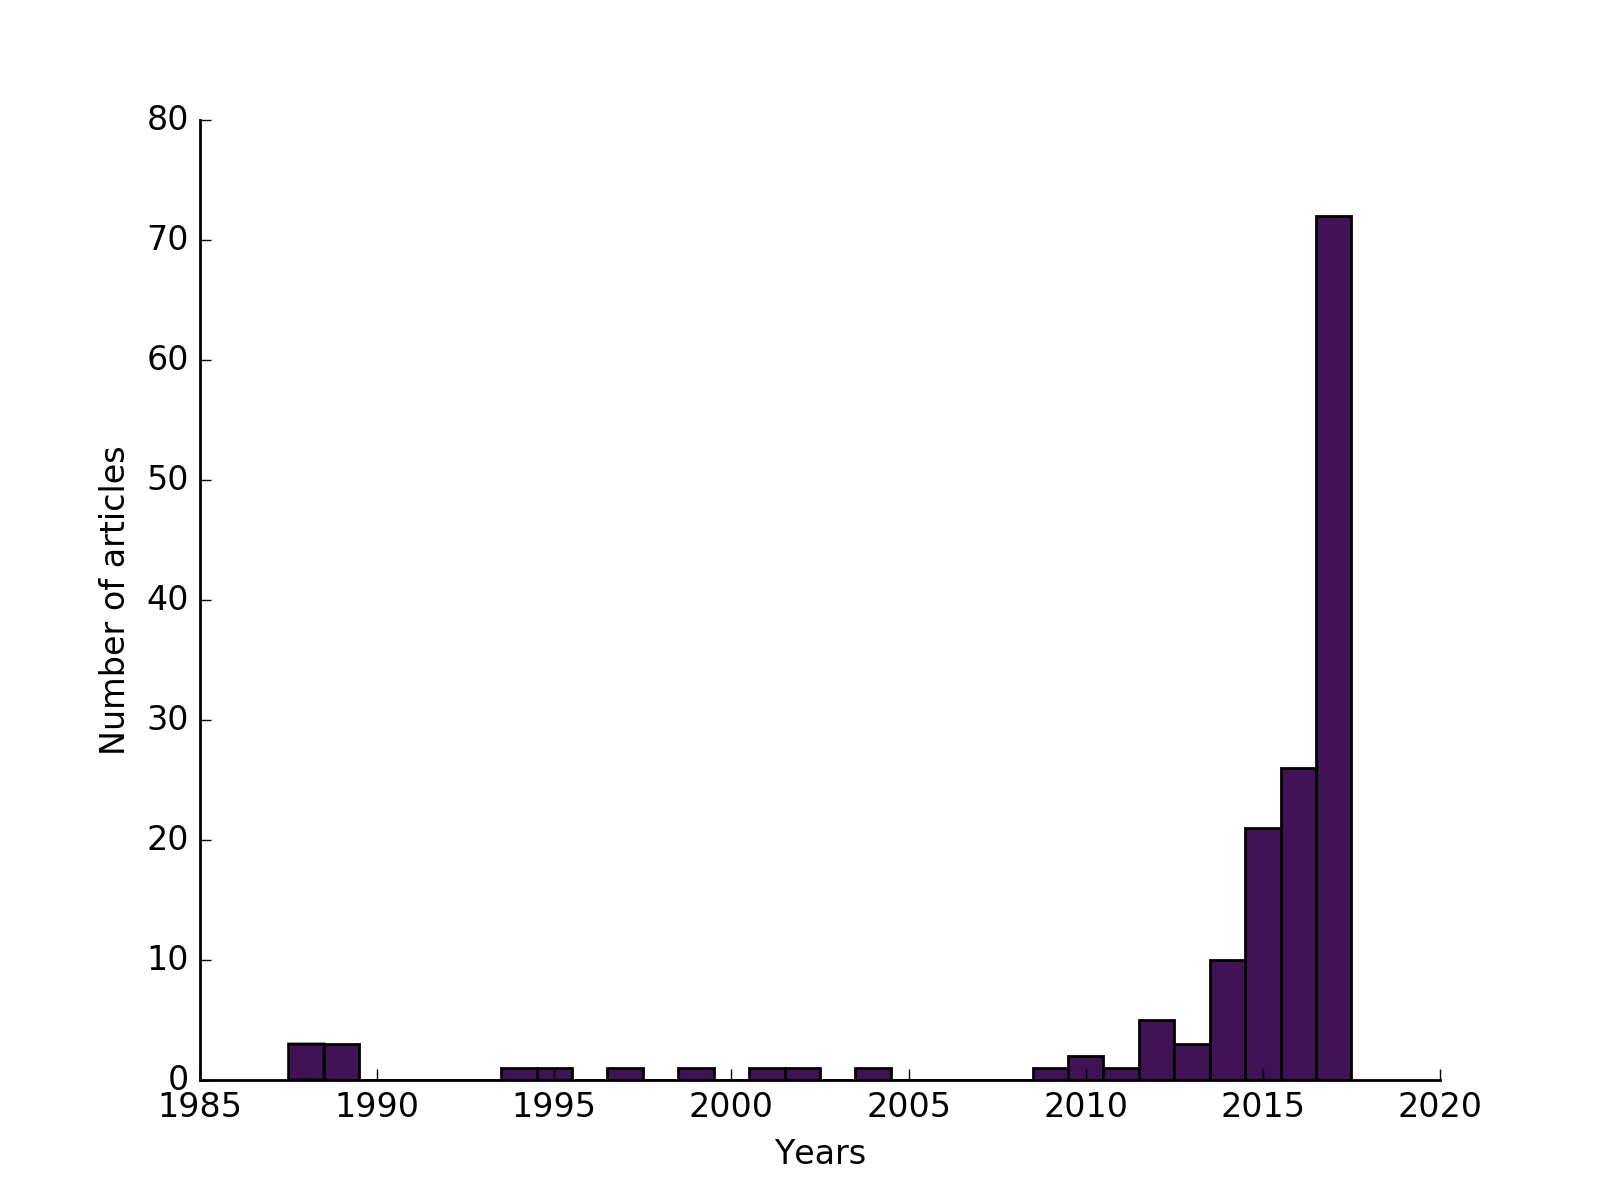
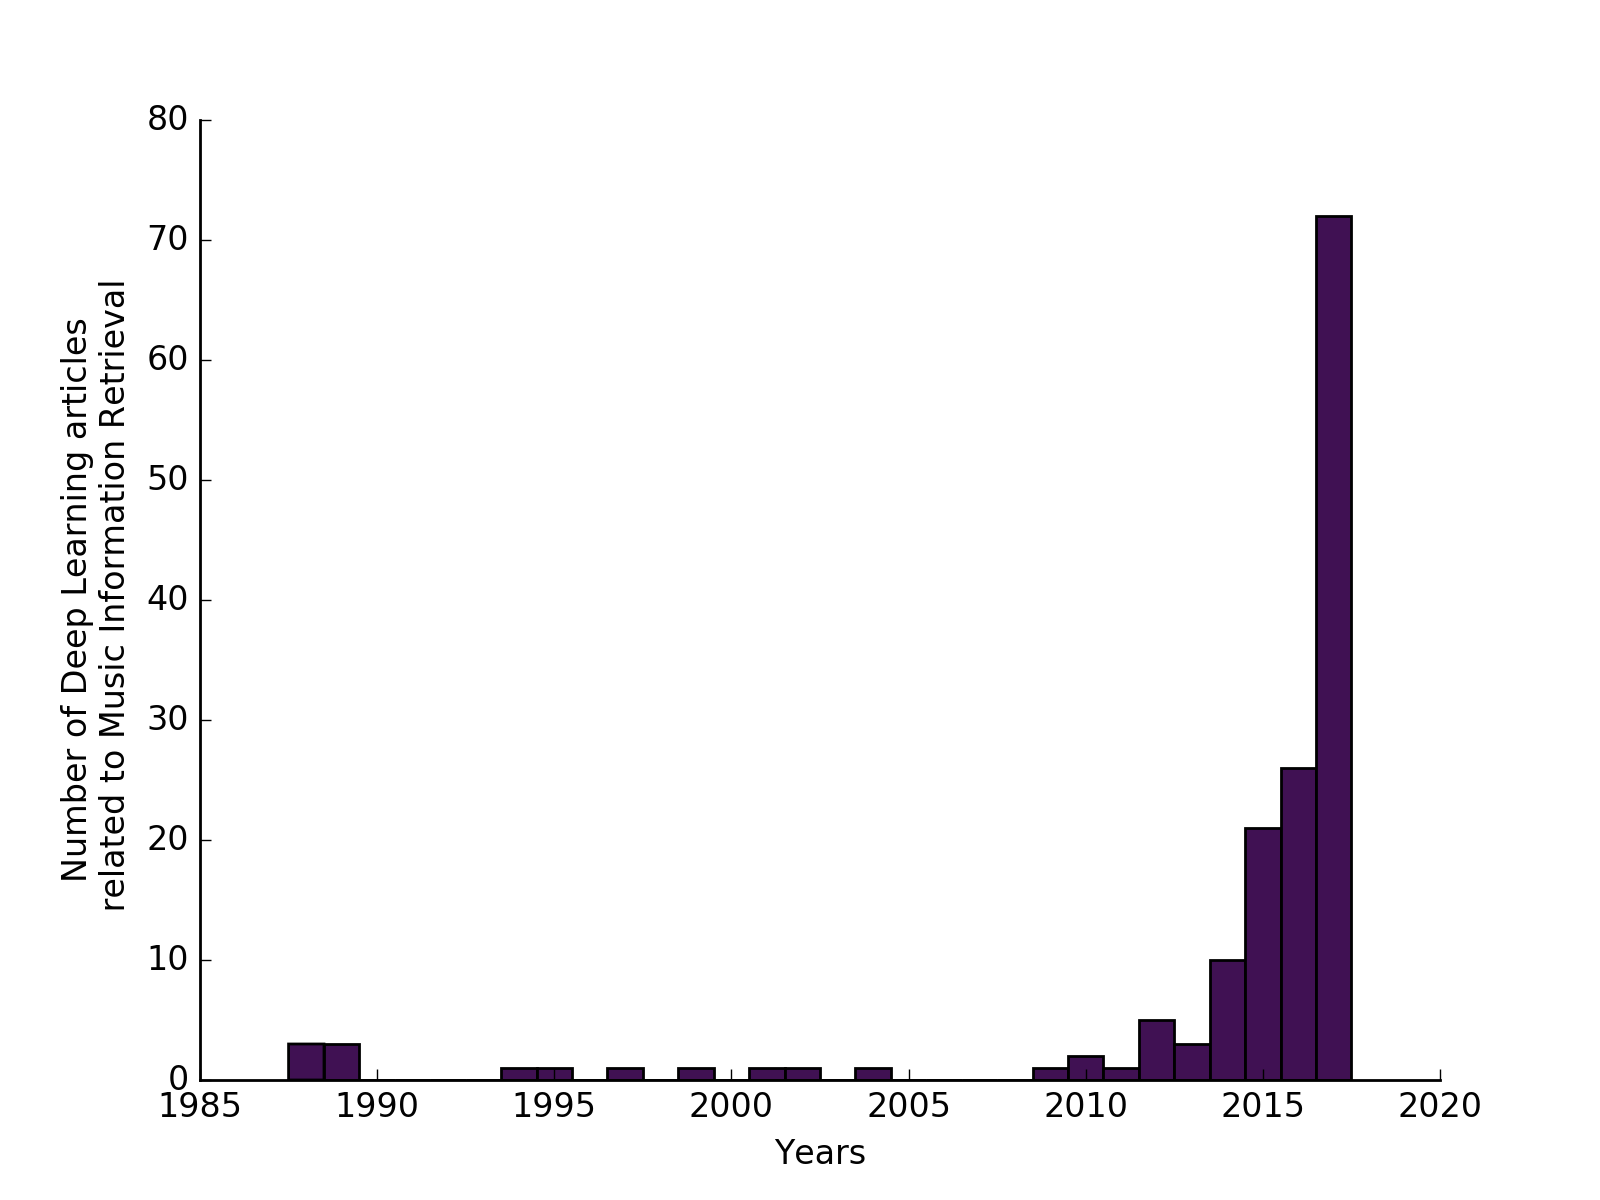
Add framework insight

Changed region(s): [[0.0312, 0.2467, 0.0938, 0.7708]]

diff --git a/dl4m.py b/dl4m.py
@@ -73,7 +73,7 @@ def articles_per_year(bib):
         years.append(year)
 
     plt.xlabel('Years')
-    plt.ylabel('Number of articles')
+    plt.ylabel('Number of Deep Learning articles\n related to Music Information Retrieval')
     year_bins = np.arange(min(years), max(years) + 2.0, 1.0)
     plt.hist(years, bins=year_bins, color="#401153", align="left")
     axe = plt.gca()
@@ -171,6 +171,7 @@ def generate_summary_table(bib):
     nb_tasks = str(get_field(bib, "task"))
     nb_datasets = str(get_field(bib, "dataset"))
     nb_archi = str(get_field(bib, "architecture"))
+    nb_framework = str(get_field(bib, "framework"))
     articles = generate_list_articles(bib)
 
     readme_fn = "README.md"
@@ -213,7 +214,8 @@ def validate_field(field_name):
     Assert the validity of the field's name
     """
     fields = ["task", "dataset", "architecture", "author", "dataaugmentation",
-              "link", "title", "year", "journal", "code", "ENTRYTYPE"]
+              "link", "title", "year", "journal", "code", "ENTRYTYPE",
+              "framework"]
     error_str = "Invalid field provided: " + field_name + ". "
     error_str += "Valid fields: " + '[%s]' % ', '.join(map(str, fields))
     assert field_name in fields, error_str
@@ -265,7 +267,7 @@ def create_table(bib, outfilen="dl4m.tsv"):
     print("Available fields:")
     print(fields)
     fields = ["year", "ENTRYTYPE", "title", "author", "link", "code", "task", 
-        "reproducible", "dataset", "framework", "backend", "architecture",
+        "reproducible", "dataset", "framework", "architecture",
         "batch", "epochs", "dataaugmentation", "input", "dimension", "dropout",
         "activation", "loss", "learningrate", "optimizer", "gpu"]
     print("Fields taken in order (in this order):")
@@ -286,6 +288,27 @@ def create_table(bib, outfilen="dl4m.tsv"):
         filep.write(str2write)
 
 
+def where_published(bib):
+    """
+    """
+    journals = []
+    conf = []
+    for entry in bib:
+        if "article" in entry["ENTRYTYPE"]:
+            journals.append(entry["journal"])
+        elif "inproceedings" in entry["ENTRYTYPE"]:
+            conf.append(entry["booktitle"])
+    journals = sorted(set(journals))
+    conf = sorted(set(conf))
+
+    with open("publication_type.md", "w") as filep:
+        filep.write("# List of publications type\n\n### Journals:\n\n- ")
+        filep.write("\n- ".join(journals))
+        filep.write("\n\n### Conferences:\n\n- ")
+        filep.write("\n- ".join(conf))
+        filep.write("\n")
+
+
 def main(filen="dl4m.bib"):
     """Description of main
     Main entry point
@@ -295,6 +318,7 @@ def main(filen="dl4m.bib"):
     generate_summary_table(bib)
     articles_per_year(bib)
     create_table(bib)
+    # where_published(bib)
 
 
 if __name__ == "__main__":

diff --git a/frameworks.md b/frameworks.md
@@ -1,0 +1,11 @@
+# List of frameworks
+
+Please refer to the list of useful acronyms used in deep learning and music: [acronyms.md](acronyms.md).
+
+- Caffe
+- Keras
+- Keras-Theano
+- Not disclosed
+- PyTorch
+- Tensorflow
+- Theano
